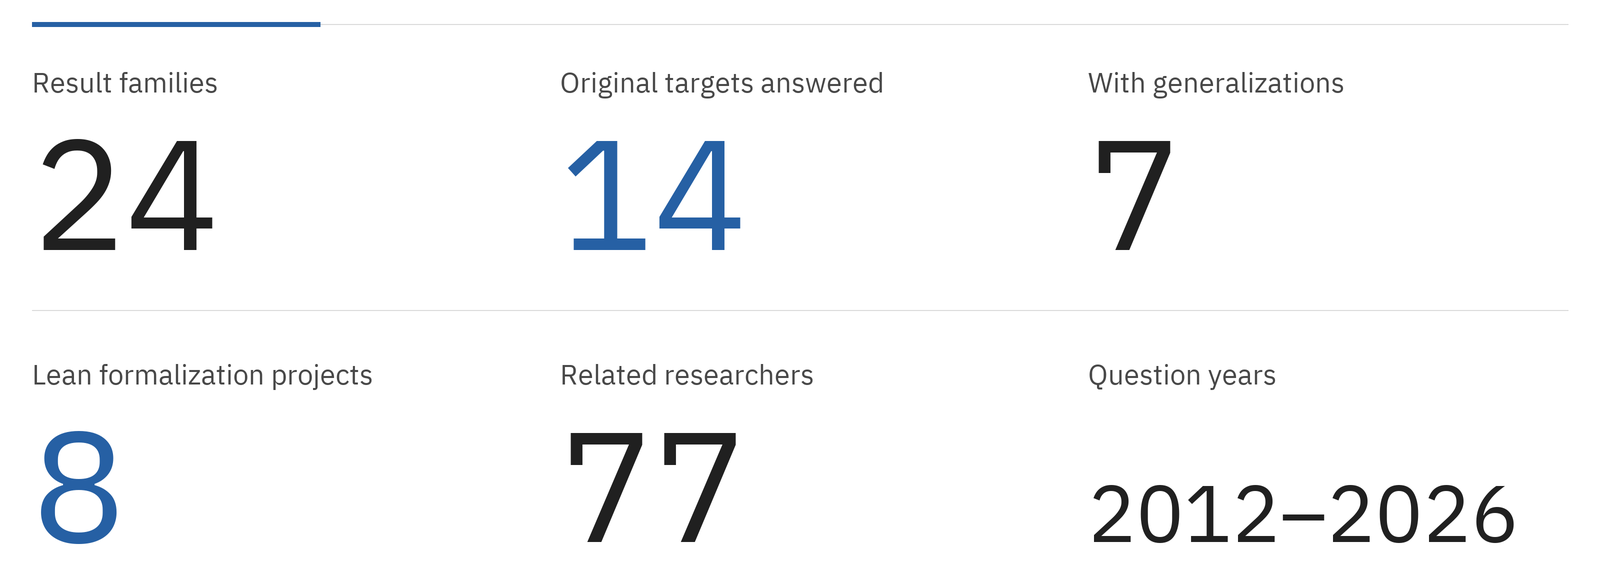
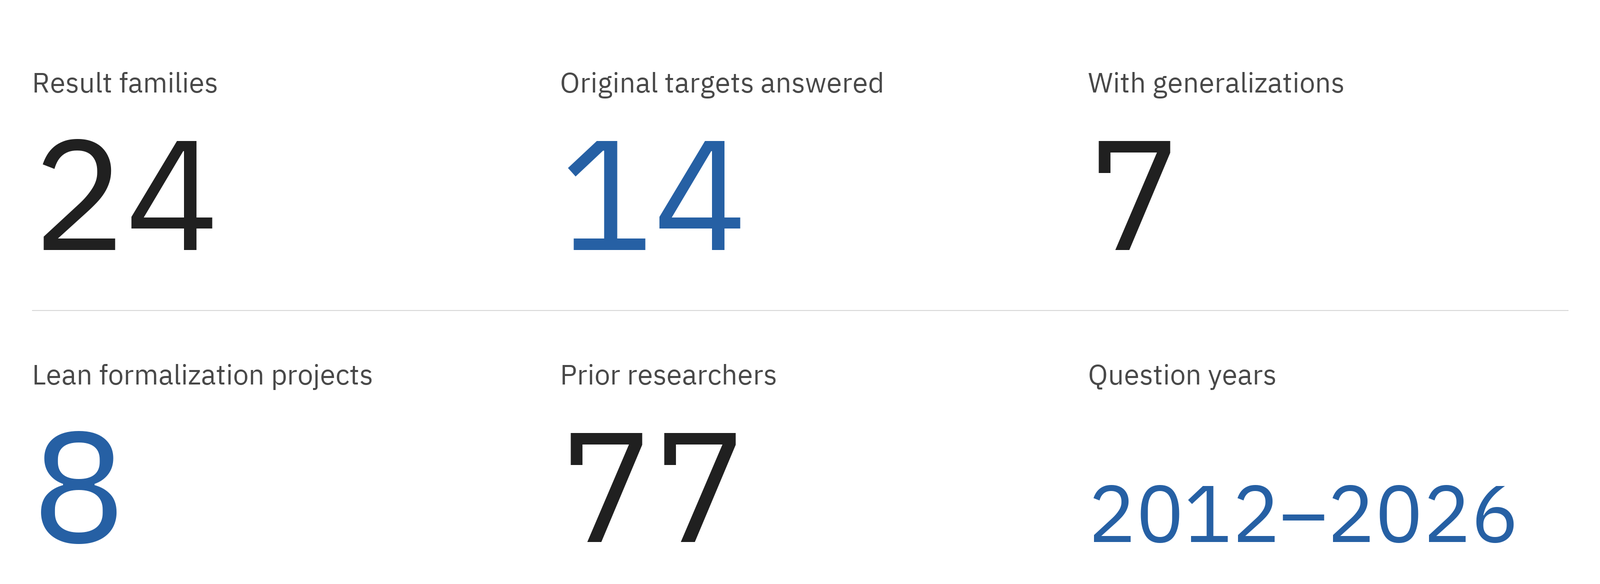
Simplify overview labels and update researcher attribution

Changed region(s): [[0.6875, 0.8322, 0.9688, 0.9247], [0.3438, 0.6164, 0.5, 0.6781], [0.0312, 0.0308, 0.2188, 0.0616]]

diff --git a/PRIOR_RESEARCH.md b/PRIOR_RESEARCH.md
@@ -1,6 +1,6 @@
-# 前人研究者与对应文献
+# 前期研究者与对应文献
 
-当前整理到**77位前人研究者，涉及44条原题及直接相关研究记录**。包含问题提出者、原论文作者、已有特例和直接相关对象的研究作者。仅作为通用工具、定义或宽泛背景引用的文献，未计入这项人数。
+当前整理到**77位前期研究者，涉及44条原题及直接相关研究记录**。包含问题提出者、原论文作者、已有特例和直接相关对象的研究作者。仅作为通用工具、定义或宽泛背景引用的文献，未计入这项人数。
 
 这是当前文献整理覆盖到的人数；部分文献的完整作者表尚未展开，因此不作为全球总人数。也不把这些作者一概解释为“尝试同一猜想但失败”。
 
@@ -31,7 +31,7 @@
 | [固定长度fertility反例：原题来源](https://arxiv.org/abs/2408.05378) | Jurgis Kemeklis | 问题来源 |
 | [Clique-join支配多项式：原题来源](https://doi.org/10.61091/jcmcc126-19) | Bilal Ahmad Rather | 问题来源 |
 | [Unique maximum independent sets in graphs on monomials of a fixed degree](https://arxiv.org/abs/2010.11112) | John Machacek | Howroyd：3整除分支 |
-| [Chemical graph extremal case n=0 mod4](https://doi.org/10.47443/dml.2026.041) | Darko Dimitrov | 化学图：已知部分；作者表未全枚举 |
+| [Modified Total Sigma-Irregularity in Chemical Graphs](https://doi.org/10.47443/dml.2026.041) | Darko Dimitrov、Slobodan Filipovski、Martin Knor、Riste Škrekovski | 化学图：已知部分 |
 | [Triangle-free regular graphs](https://doi.org/10.1016/0012-365X(91)90114-H) | A. F. Sidorenko | A-图既有偶度族 |
 | [Triangle-free graphs whose independence number equals the degree](https://doi.org/10.1016/j.disc.2009.05.021) | Stephan Brandt | A-图比例构造 |
 | [Chorded cycles in Chvátal–Erdős graphs](https://doi.org/10.1016/j.disc.2026.115336) | Allan Bickle、Megan Cream、Ronald J. Gould | A-图后续端点结果 |

diff --git a/SOURCES.md b/SOURCES.md
@@ -29,7 +29,7 @@
 | 23 | 固定长度fertility反例：原题来源 | 2024 | Jurgis Kemeklis | arXiv | 问题来源 | [来源](https://arxiv.org/abs/2408.05378) |
 | 24 | Clique-join支配多项式：原题来源 | 2025 | Bilal Ahmad Rather | Journal of Combinatorial Mathematics and Combinatorial Computing | 问题来源 | [来源](https://doi.org/10.61091/jcmcc126-19) |
 | 25 | Unique maximum independent sets in graphs on monomials of a fixed degree | 2021 | John Machacek | Procedia Computer Science 195; LAGOS 2021 | Howroyd：3整除分支 | [来源](https://arxiv.org/abs/2010.11112) |
-| 26 | Chemical graph extremal case n=0 mod4 | 2026 | Darko Dimitrov | Discrete Mathematics Letters 18 | 化学图：已知部分；作者表未全枚举 | [来源](https://doi.org/10.47443/dml.2026.041) |
+| 26 | Modified Total Sigma-Irregularity in Chemical Graphs | 2026 | Darko Dimitrov、Slobodan Filipovski、Martin Knor、Riste Škrekovski | Discrete Mathematics Letters 18 | 化学图：已知部分 | [来源](https://doi.org/10.47443/dml.2026.041) |
 | 27 | A simple algorithm for expanding a power series as a continued fraction | 2023 | Alan D. Sokal | Expositiones Mathematicae | Lecture Hall通用工具 | [来源](https://doi.org/10.1016/j.exmath.2022.12.001) |
 | 28 | Combinatorial aspects of continued fractions | 1980 | Philippe Flajolet | Discrete Mathematics | Lecture Hall经典工具 | [来源](https://algo.inria.fr/flajolet/Publications/Flajolet80b.pdf) |
 | 29 | Triangle-free regular graphs | 1991 | A. F. Sidorenko | Discrete Mathematics | A-图既有偶度族 | [来源](https://doi.org/10.1016/0012-365X(91)90114-H) |

diff --git a/METHODS.md b/METHODS.md
@@ -27,7 +27,7 @@
 
 ## 相关研究数量
 
-首屏“相关研究学者”使用较窄口径：原题来源加直接相关研究共44条，已列作者去重为77个姓名；通用工具、定义、宽泛背景和仅作书目旁证的记录不纳入。逐条筛选、作者与对应原文见[相关研究](PRIOR_RESEARCH.md)及[data/prior_research_coverage.json](data/prior_research_coverage.json)。该数字描述文献已覆盖的研究者，不是全球总人数或失败尝试人数。14项原题的来源载体为正式期刊论文。
+首屏“前期研究者”使用较窄口径：原题来源加直接相关研究共44条，已列作者去重为77个姓名；通用工具、定义、宽泛背景和仅作书目旁证的记录不纳入。逐条筛选、作者与对应原文见[相关研究](PRIOR_RESEARCH.md)及[data/prior_research_coverage.json](data/prior_research_coverage.json)。该数字描述文献已覆盖的研究者，不是全球总人数或失败尝试人数。14项原题的来源载体为正式期刊论文。
 
 60条书目包括24条问题来源和36条相关研究／工具背景。其中OEIS为1条，其余59条为论文、预印本、技术报告或作者稿等研究文献。列出作者去重后有102个姓名字符串；部分作者表未完全展开，同名身份未全部消歧，因此正文概括为“百余个作者署名”。这不是尝试解决同一问题的人数，也不是全球文献全集。
 

diff --git a/README.en.md b/README.en.md
@@ -21,7 +21,7 @@ A collection of **24 result families** in combinatorics, graph theory, polynomia
 
 <picture>
   <source media="(max-width: 650px)" srcset="assets/research-overview.swiss-classic.mobile.en.png">
-  <img src="assets/research-overview.swiss-classic.en.png" alt="24 result families; 14 original targets answered; 7 families with generalizations; 8 Lean formalization projects; 77 researchers in related work; question years 2012–2026." width="1600">
+  <img src="assets/research-overview.swiss-classic.en.png" alt="24 result families; 14 original targets answered; 7 families with generalizations; 8 Lean formalization projects; 77 prior researchers; question years 2012–2026." width="1600">
 </picture>
 
 **Research areas:** extremal graph theory · algebraic combinatorics · commutative algebra · discrete geometry · real-rooted polynomials · enumerative geometry · asymptotic analysis · formalized mathematics

diff --git a/README.md b/README.md
@@ -21,7 +21,7 @@
 
 <picture>
   <source media="(max-width: 650px)" srcset="assets/research-overview.swiss-classic.mobile.zh.png">
-  <img src="assets/research-overview.swiss-classic.zh.png" alt="24组研究成果，14项原题解答，7组推广成果，8个Lean形式化项目，77位相关研究学者；问题提出年份2012—2026。" width="1600">
+  <img src="assets/research-overview.swiss-classic.zh.png" alt="24组研究成果，14项原题解答，7组推广成果，8个Lean形式化项目，77位前期研究者；问题提出年份2012—2026。" width="1600">
 </picture>
 
 **涉及领域：** 极值图论 · 代数组合 · 交换代数 · 离散几何 · 实根多项式 · 枚举几何 · 渐近分析 · 形式化数学
